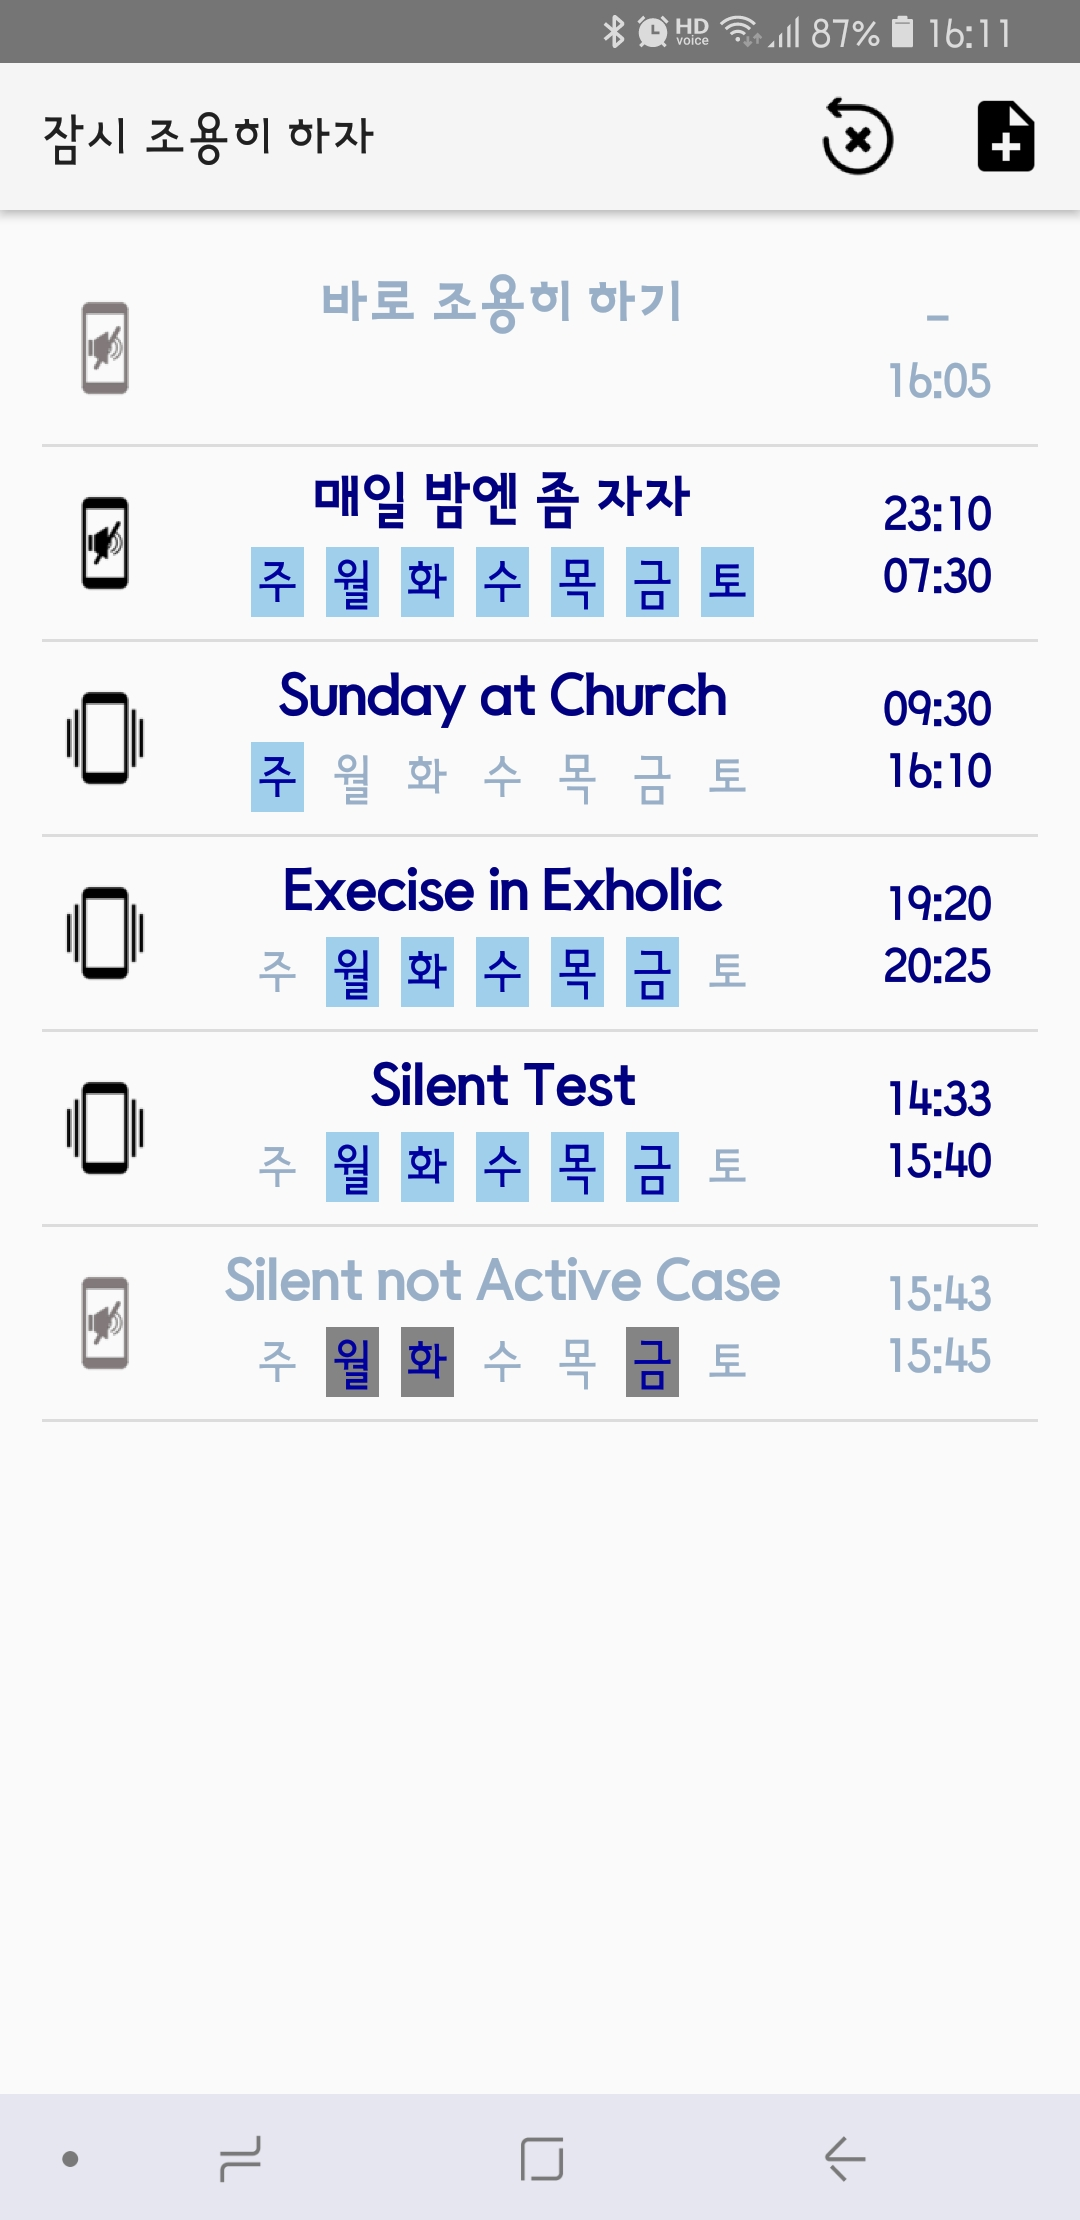
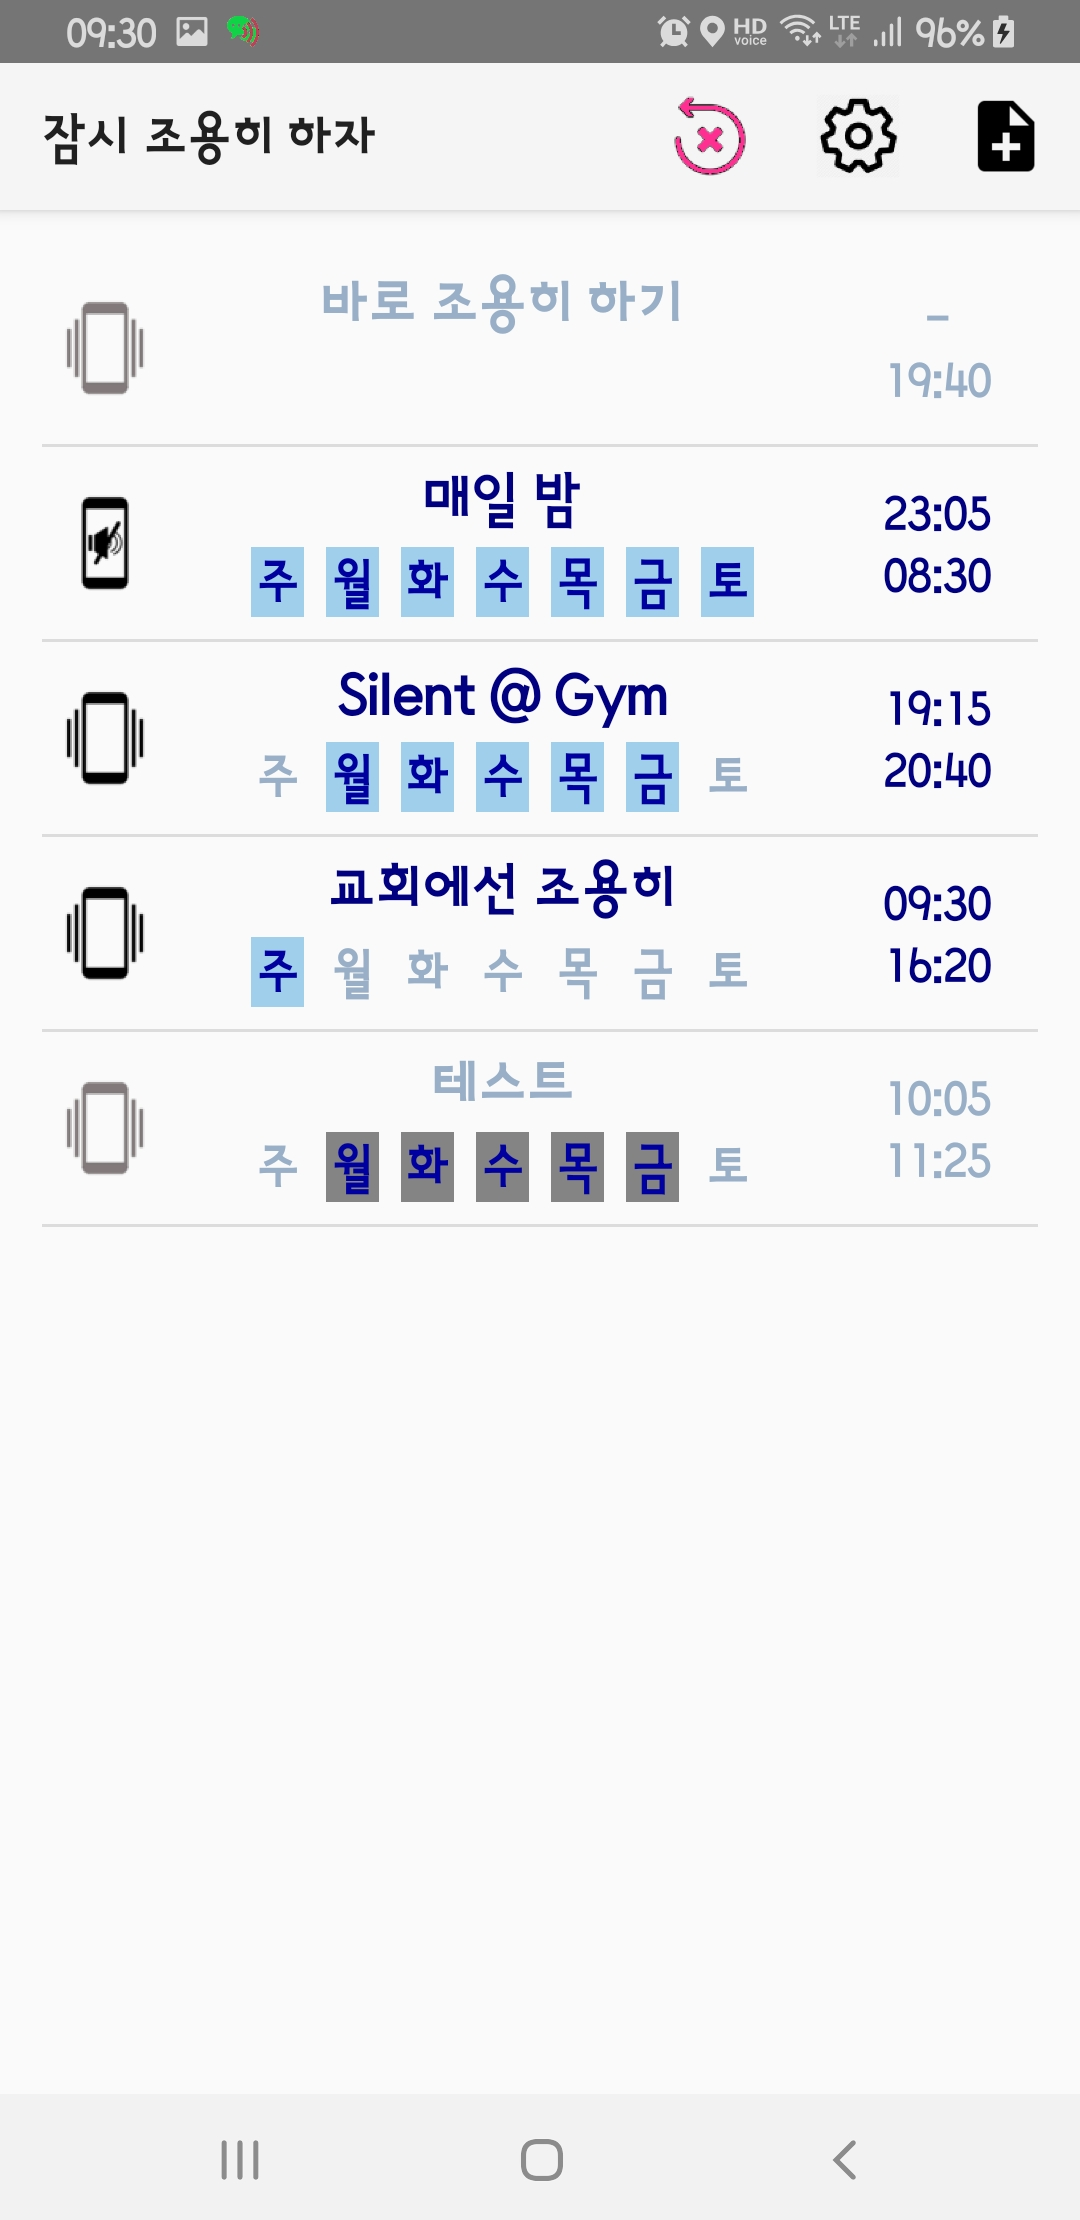
Minor Changes

diff --git a/app/src/main/java/com/urrecliner/andriod/keepitdown/MainActivity.java b/app/src/main/java/com/urrecliner/andriod/keepitdown/MainActivity.java
@@ -87,7 +87,7 @@ public class MainActivity extends AppCompatActivity {
         Cursor cursor = databaseIO.getAll();
         Vars.dbCount = databaseIO.getCount(cursor);
         cursor.close();
-        utils.log("Initial", "dbCount " + Vars.dbCount);
+//        utils.log("Initial", "dbCount " + Vars.dbCount);
         if (Vars.dbCount == 0)
             databaseIO.clearDatabase(getApplicationContext());
 
@@ -110,7 +110,8 @@ public class MainActivity extends AppCompatActivity {
 
     void act_OnReceiverCase() {
         String text;
-        utils.log("switch",ReceiverCase);
+        if (!ReceiverCase.equals("BLANK"))
+            utils.log("switch",ReceiverCase);
         switch (ReceiverCase) {
             case "Timer":
                 ReceiverCase = "TimerEnd";
@@ -274,7 +275,7 @@ public class MainActivity extends AppCompatActivity {
 
     @Override
     public void onBackPressed() {
-        super.onBackPressed();
+//        super.onBackPressed();
     }
 
     void preparePermission(Context context) {

diff --git a/app/src/main/java/com/urrecliner/andriod/keepitdown/Reminder.java b/app/src/main/java/com/urrecliner/andriod/keepitdown/Reminder.java
@@ -66,8 +66,8 @@ public class Reminder implements Serializable {
 
     Reminder getDefaultReminder() {
         id = 1;
-        uniqueId = (int) (System.currentTimeMillis() % 1000000000L);
-        subject = "Weekday Silent";
+        uniqueId = (int) (System.currentTimeMillis() % 100000000L);
+        subject = "WeekNight";
         startHour = 23; startMin = 30; finishHour= 7; finishMin = 30;
         week = new boolean[]{false, true, true, true, true, true, false};
         return new Reminder(id, uniqueId, subject, startHour, startMin, finishHour, finishMin,

diff --git a/app/src/main/java/com/urrecliner/andriod/keepitdown/Vars.java b/app/src/main/java/com/urrecliner/andriod/keepitdown/Vars.java
@@ -33,7 +33,7 @@ class Vars {
     static int default_Duration = 60;
 
     static final SimpleDateFormat sdfDate = new SimpleDateFormat("yyyy-MM-dd", Locale.US);
-    static final SimpleDateFormat sdfDateTime = new SimpleDateFormat("yyyy-MM-dd HH:mm:ss", Locale.US);
+    static final SimpleDateFormat sdfDateTime = new SimpleDateFormat("yyyy-MM-dd HH:mm", Locale.US);
     static final SimpleDateFormat sdfDateTimeLog = new SimpleDateFormat("yyyy-MM-dd HH.mm.ss sss", Locale.US);
     static Reminder reminder = new Reminder();
     static DatabaseIO databaseIO;

diff --git a/app/src/main/java/com/urrecliner/andriod/keepitdown/NextAlarm.java b/app/src/main/java/com/urrecliner/andriod/keepitdown/NextAlarm.java
@@ -13,7 +13,6 @@ import static com.urrecliner.andriod.keepitdown.Vars.utils;
 class NextAlarm {
 
     static void request(Reminder reminder, long nextTime, String S_F) {
-        utils.log(S_F, "requested");
         AlarmManager alarmManager = (AlarmManager) mainContext.getSystemService(Context.ALARM_SERVICE);
         assert alarmManager != null;
         Intent intent = new Intent(mainContext, AlarmReceiver.class);

diff --git a/README.md b/README.md
@@ -10,7 +10,7 @@
 - Screen when this app is invoked
 - You can press one of the items to edit
 - First item is used for immediate silence (it shows no weekday information)
-- Press <img src="./app/src/main/res/mipmap-xhdpi/icon_reset.png" width=24 height=24> to reset all defined list
+- Press <img src="./app/src/main/res/mipmap-xhdpi/icon_reset.png" width=24 height=24> to reset all defined list. It deletes all the defined tasks and create two activities (1st: immediate slient, 2nd: default generated)
 - Press <img src="./app/src/main/res/mipmap-xhdpi/icon_add.png" width=24 height=24> to add new item
 - Items will be grayed if it is not active
 
@@ -19,7 +19,7 @@
 
 <H3>addActivity</H3>
 
-- Screen when add or update is requested
+- Screen when add or update is requested (WHen it's new, delete button <img src="./app/src/main/res/mipmap-xhdpi/icon_save.png" width=24 height=24> will not be enabled)
 - Left time is for start (go into silent)
 - Right time is for finish (return to normal)
 - You may change start/finish time by clicking clock images or times displayed
@@ -27,6 +27,7 @@
 - Clicking <img src="./app/src/main/res/mipmap-xhdpi/ic_phone_vibrate.png" width=24 height=24> will toggle whether to allow phone vibrating or not
 - Subject can be edited as you want
 - Check mark is toggle for active or not
+- Touching week name will toggle on that day.
 - Top menu icon <img src="./app/src/main/res/mipmap-xhdpi/icon_delete.png" width=24 height=24> will delete this item immediately.
 - Top menu icon  <img src="./app/src/main/res/mipmap-xhdpi/icon_save.png" width=24 height=24> will save item and go back to main Activity screen
 - Top menu icon  <img src="./app/src/main/res/mipmap-xhdpi/icon_cancel.png" width=24 height=24> will ignore current change and go back to main Activity screen.
@@ -46,6 +47,17 @@
 
 <br>&nbsp;&nbsp;&nbsp;&nbsp;&nbsp;&nbsp;&nbsp;&nbsp;&nbsp;&nbsp;&nbsp;&nbsp;
 <img src="./screenshots/timerActivity.jpg" width=240 height=480>
+
+
+<H3>SettingActivity</H3>
+ 
+- Some parameters adjusting is provided in this screen
+- Sound On/Off when switching to Manner Mode On/Off
+- Immediate time adjust interval : short time interval, long time interval, default duration
+- ReEecute all the tasks now
+
+<br>&nbsp;&nbsp;&nbsp;&nbsp;&nbsp;&nbsp;&nbsp;&nbsp;&nbsp;&nbsp;&nbsp;&nbsp;
+<img src="./screenshots/SettingActivity.jpg" width=240 height=480>
 
 <H1>Comments</H1>
 
